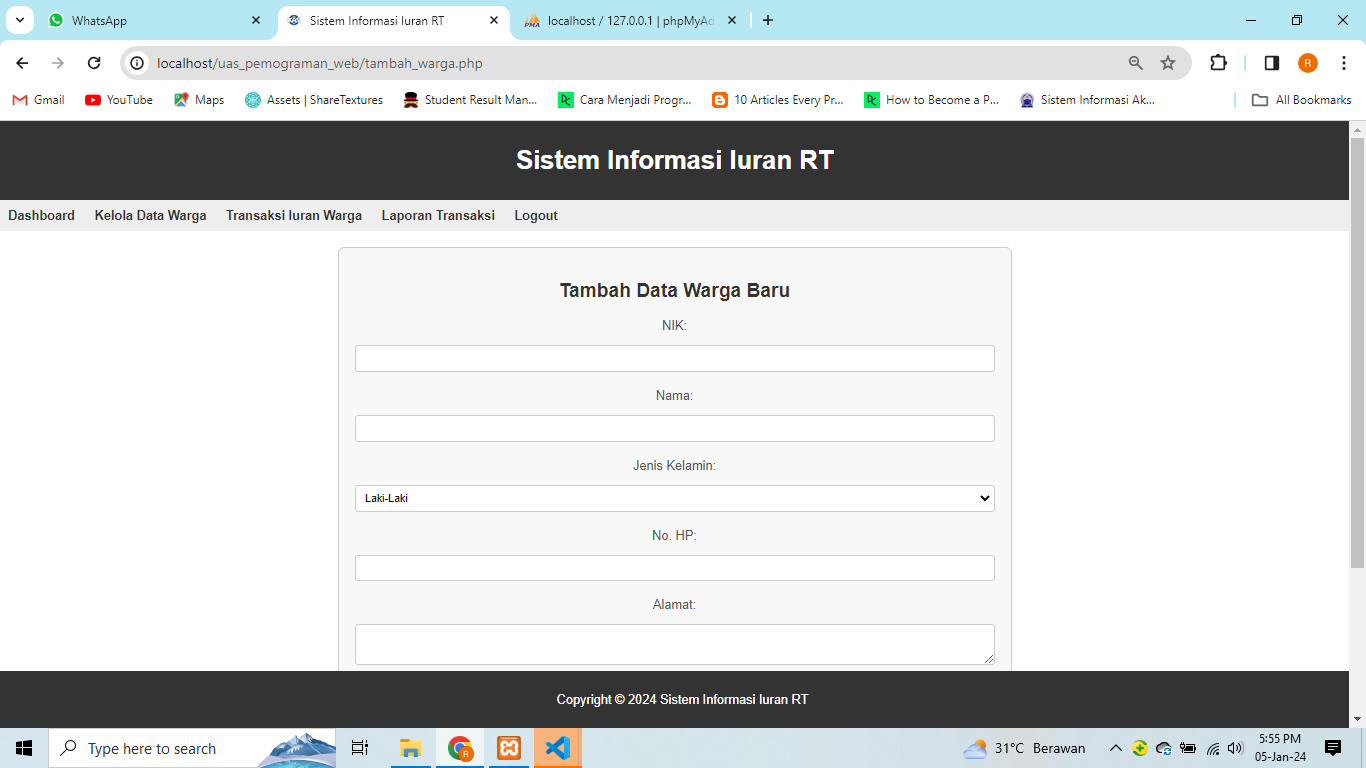
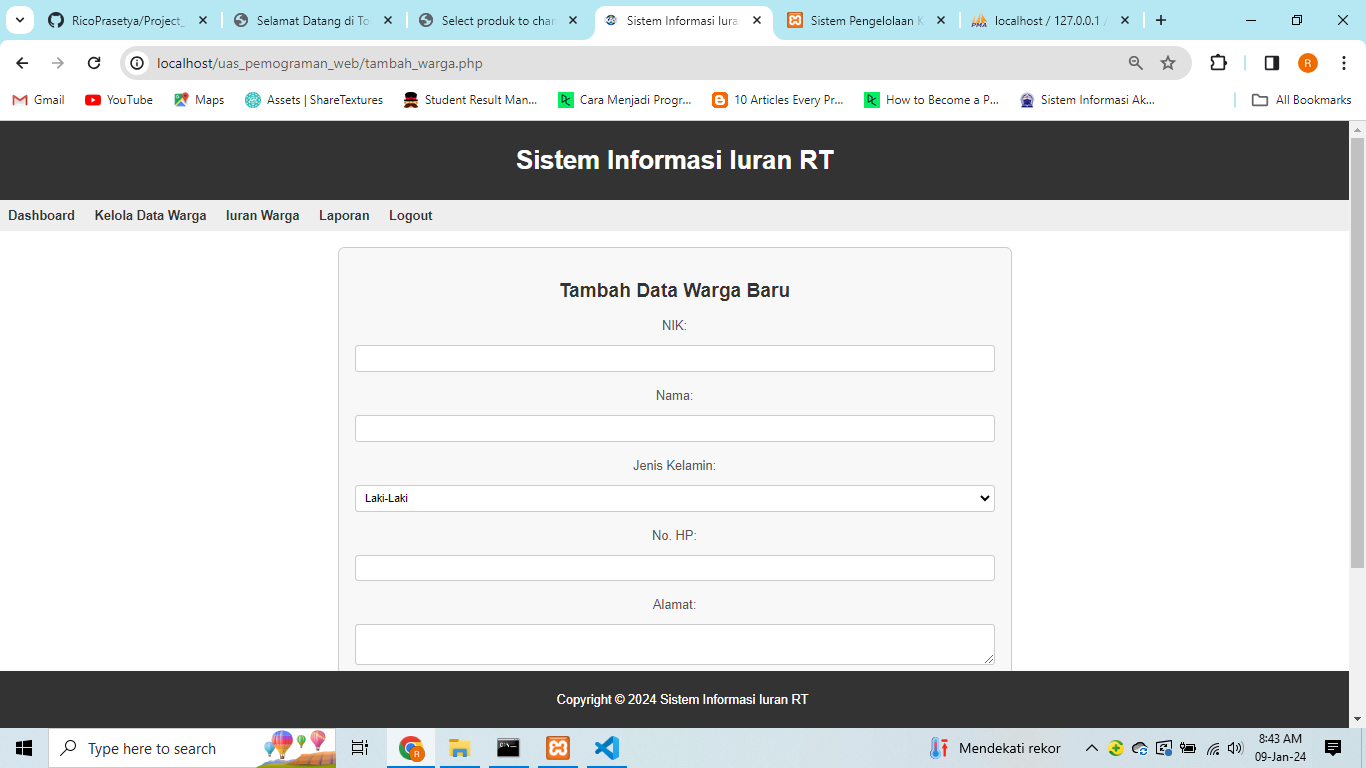
menambah tugas

diff --git a/UAS_Pemograman_Web/css/kelola_data_warga.css b/UAS_Pemograman_Web/css/kelola_data_warga.css
@@ -120,8 +120,11 @@ form button.ubah-warga:hover {
 }
 
 form button.ubah-warga, form button.hapus-warga {
-    display: inline-block;
-    margin-right: 30px;
+    padding: 8px;
+    cursor: pointer;
+    border: none;
+    color: #fff;
+    border-radius: 4px;
 }
 
 form button.ubah-warga {

diff --git a/UAS_Pemograman_Web/css/style.css b/UAS_Pemograman_Web/css/style.css
@@ -68,7 +68,7 @@ footer {
     transition: background-color 0.3s ease; /* Efek transisi hover */
     box-shadow: 5px 5px 10px rgba(0, 0, 0, 0.2); /* Tambahkan shadow di luar kotak */
     font-weight: bold; /* Membuat teks tebal */
-    width: 30%;
+    width: 25%;
 }
 
 .page-button .fa {

diff --git a/UAS_Pemograman_Web/index.php b/UAS_Pemograman_Web/index.php
@@ -44,9 +44,9 @@ if (!isset($_SESSION['user_id'])) {
         <!-- Konten utama website akan dimuat di sini -->
         <h2>Dashboard</h2>
         <div class="button-container">
-            <a href="kelola_warga.php" class="page-button">Kelola Data Warga <i class="fa fa-user"></i></a>
-            <a href="transaksi_iuran.php" class="page-button">Transaksi Iuran Warga <i class="fa fa-dollar-sign"></i></a>
-            <a href="laporan_transaksi.php" class="page-button">Laporan Transaksi <i class="fa fa-file-text"></i></a>
+            <a href="kelola_warga.php" class="page-button">Kelola Data Warga<i class="fa fa-user"></i></a>
+            <a href="transaksi_iuran.php" class="page-button">Iuran Warga<i class="fa fa-dollar-sign"></i></a>
+            <a href="laporan_transaksi.php" class="page-button">Laporan<i class="fa fa-file-text"></i></a>
             <!-- Tambahkan tombol untuk halaman lainnya sesuai kebutuhan -->
         </div>
     </main>

diff --git a/UAS_Pemograman_Web/login.php b/UAS_Pemograman_Web/login.php
@@ -61,7 +61,7 @@ $koneksi->close();
         <form method="POST" action="<?php echo htmlspecialchars($_SERVER["PHP_SELF"]); ?>">
         <div class="logo-container">
         <img src="img/kas.png" alt="Logo Kas">
-        <h1>Sistem Informasi iuran RT</h1>
+        <h1>Sistem Informasi Iuran RT</h1>
         </div>
             <h2>Login</h2>
             <label for="username">Username:</label>
@@ -71,7 +71,7 @@ $koneksi->close();
             <input type="password" name="password" required>
 
             <button type="submit">Login</button>
-            <p class="copyright">Copyright © 2024 Sistem Informasi RT</p>
+            <p class="copyright">Copyright © 2024 Sistem Informasi Iuran RT</p>
         </form>
     </main>
 
